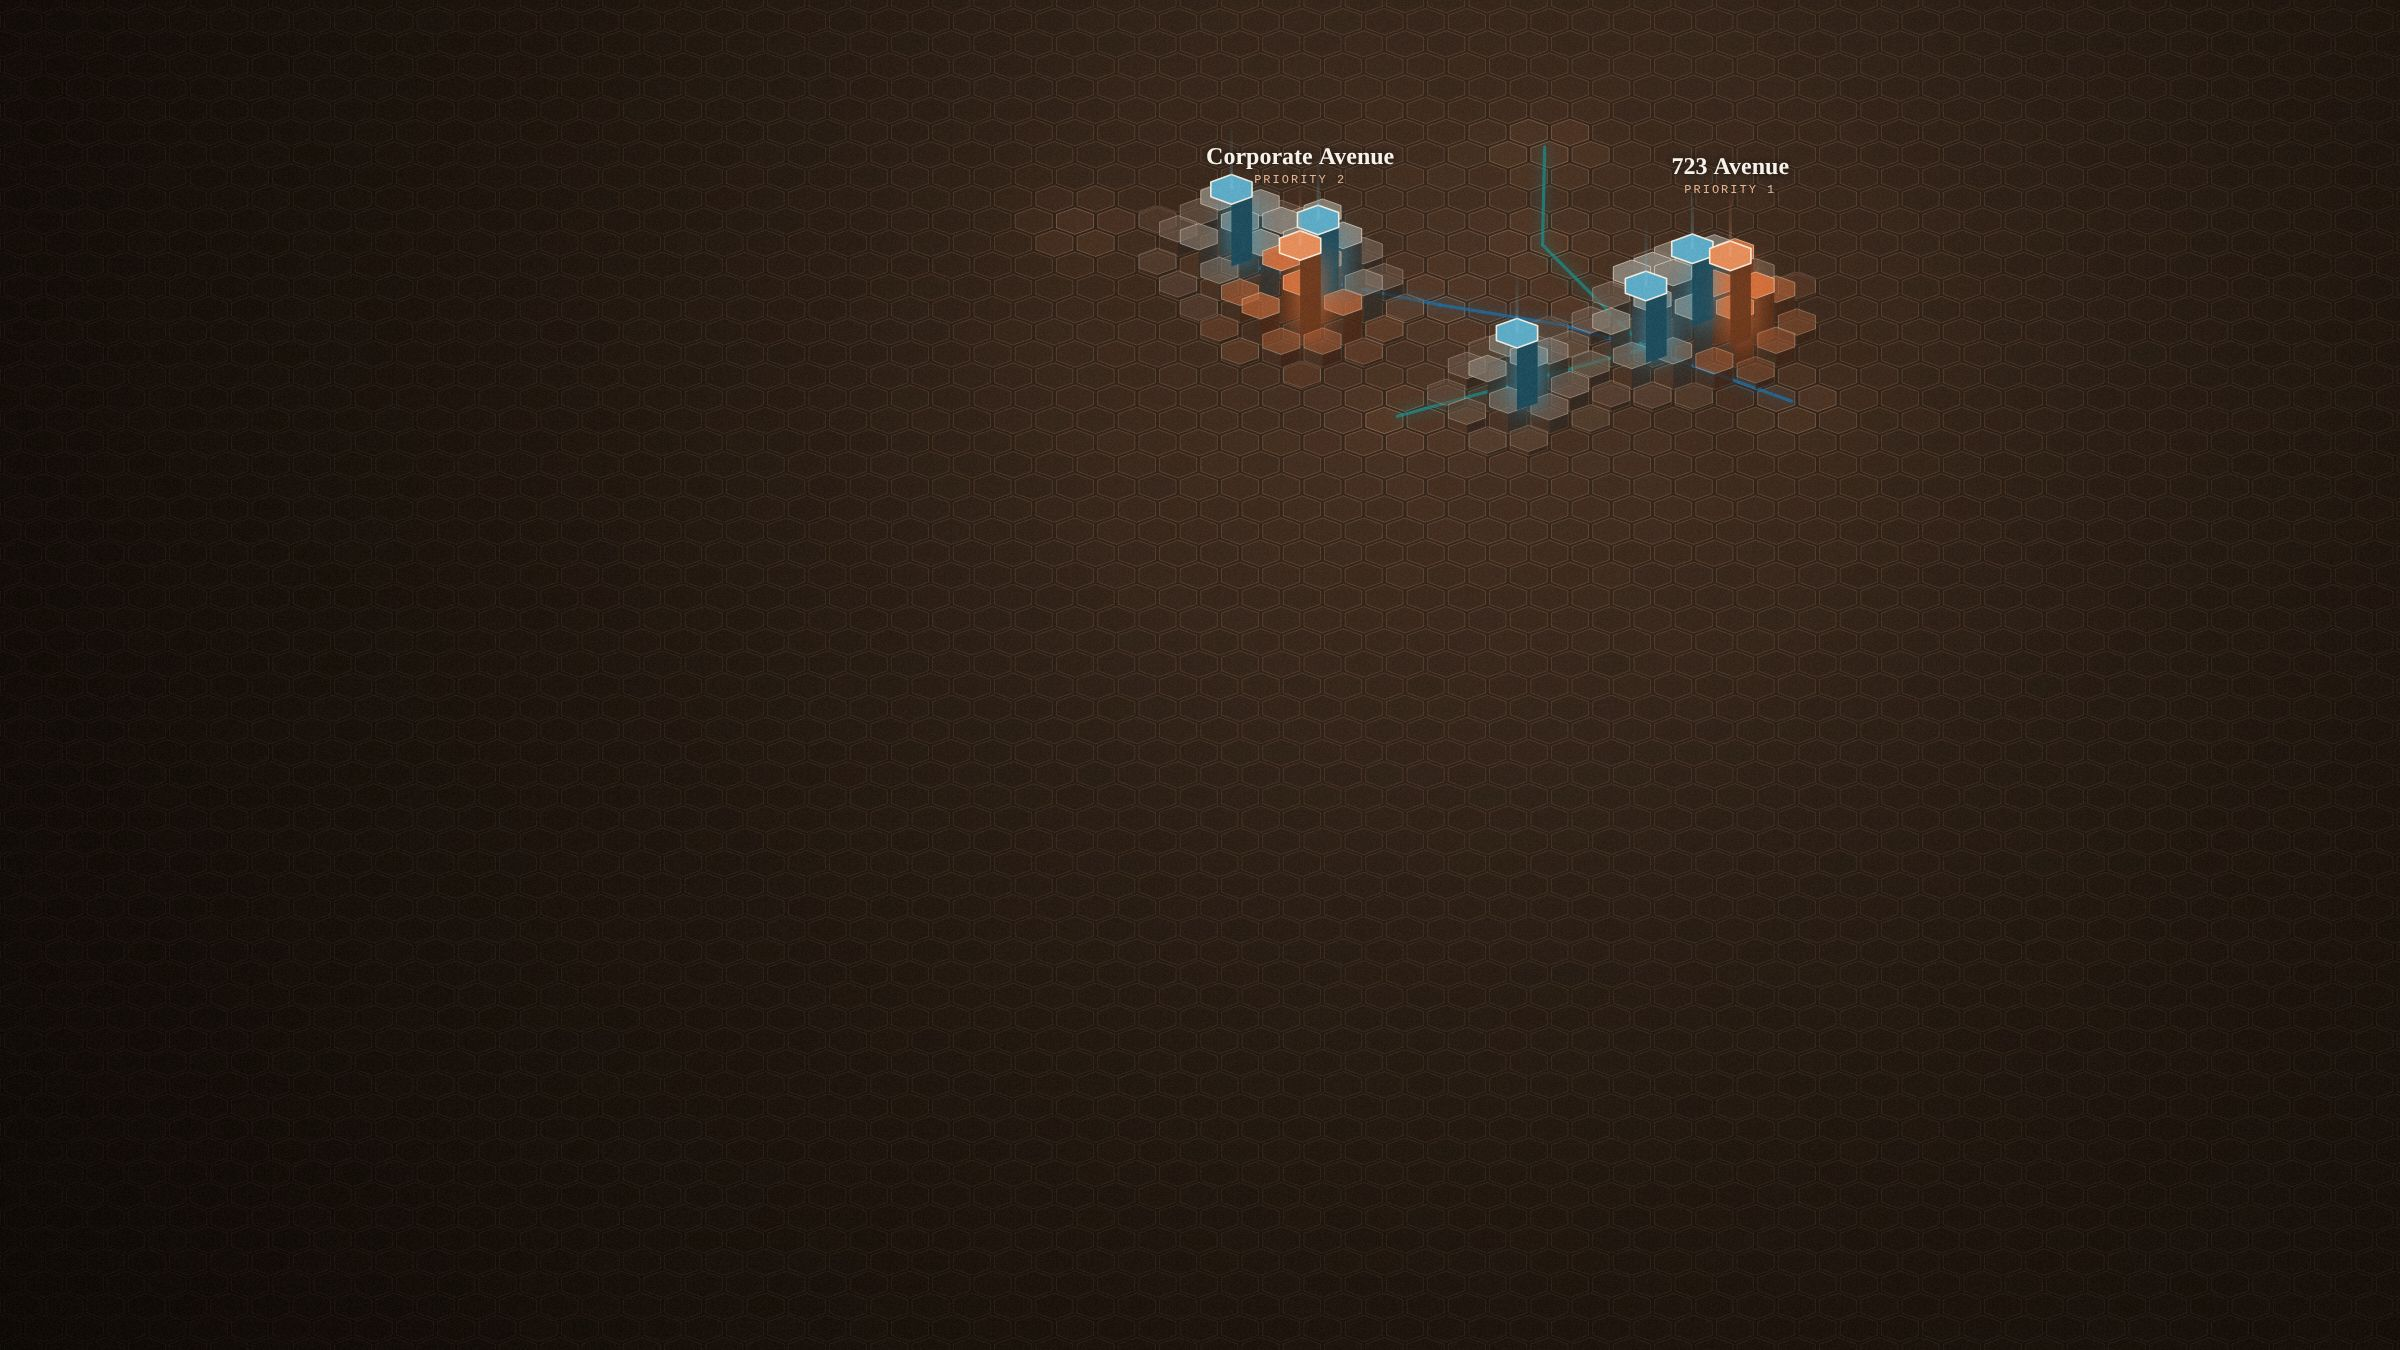
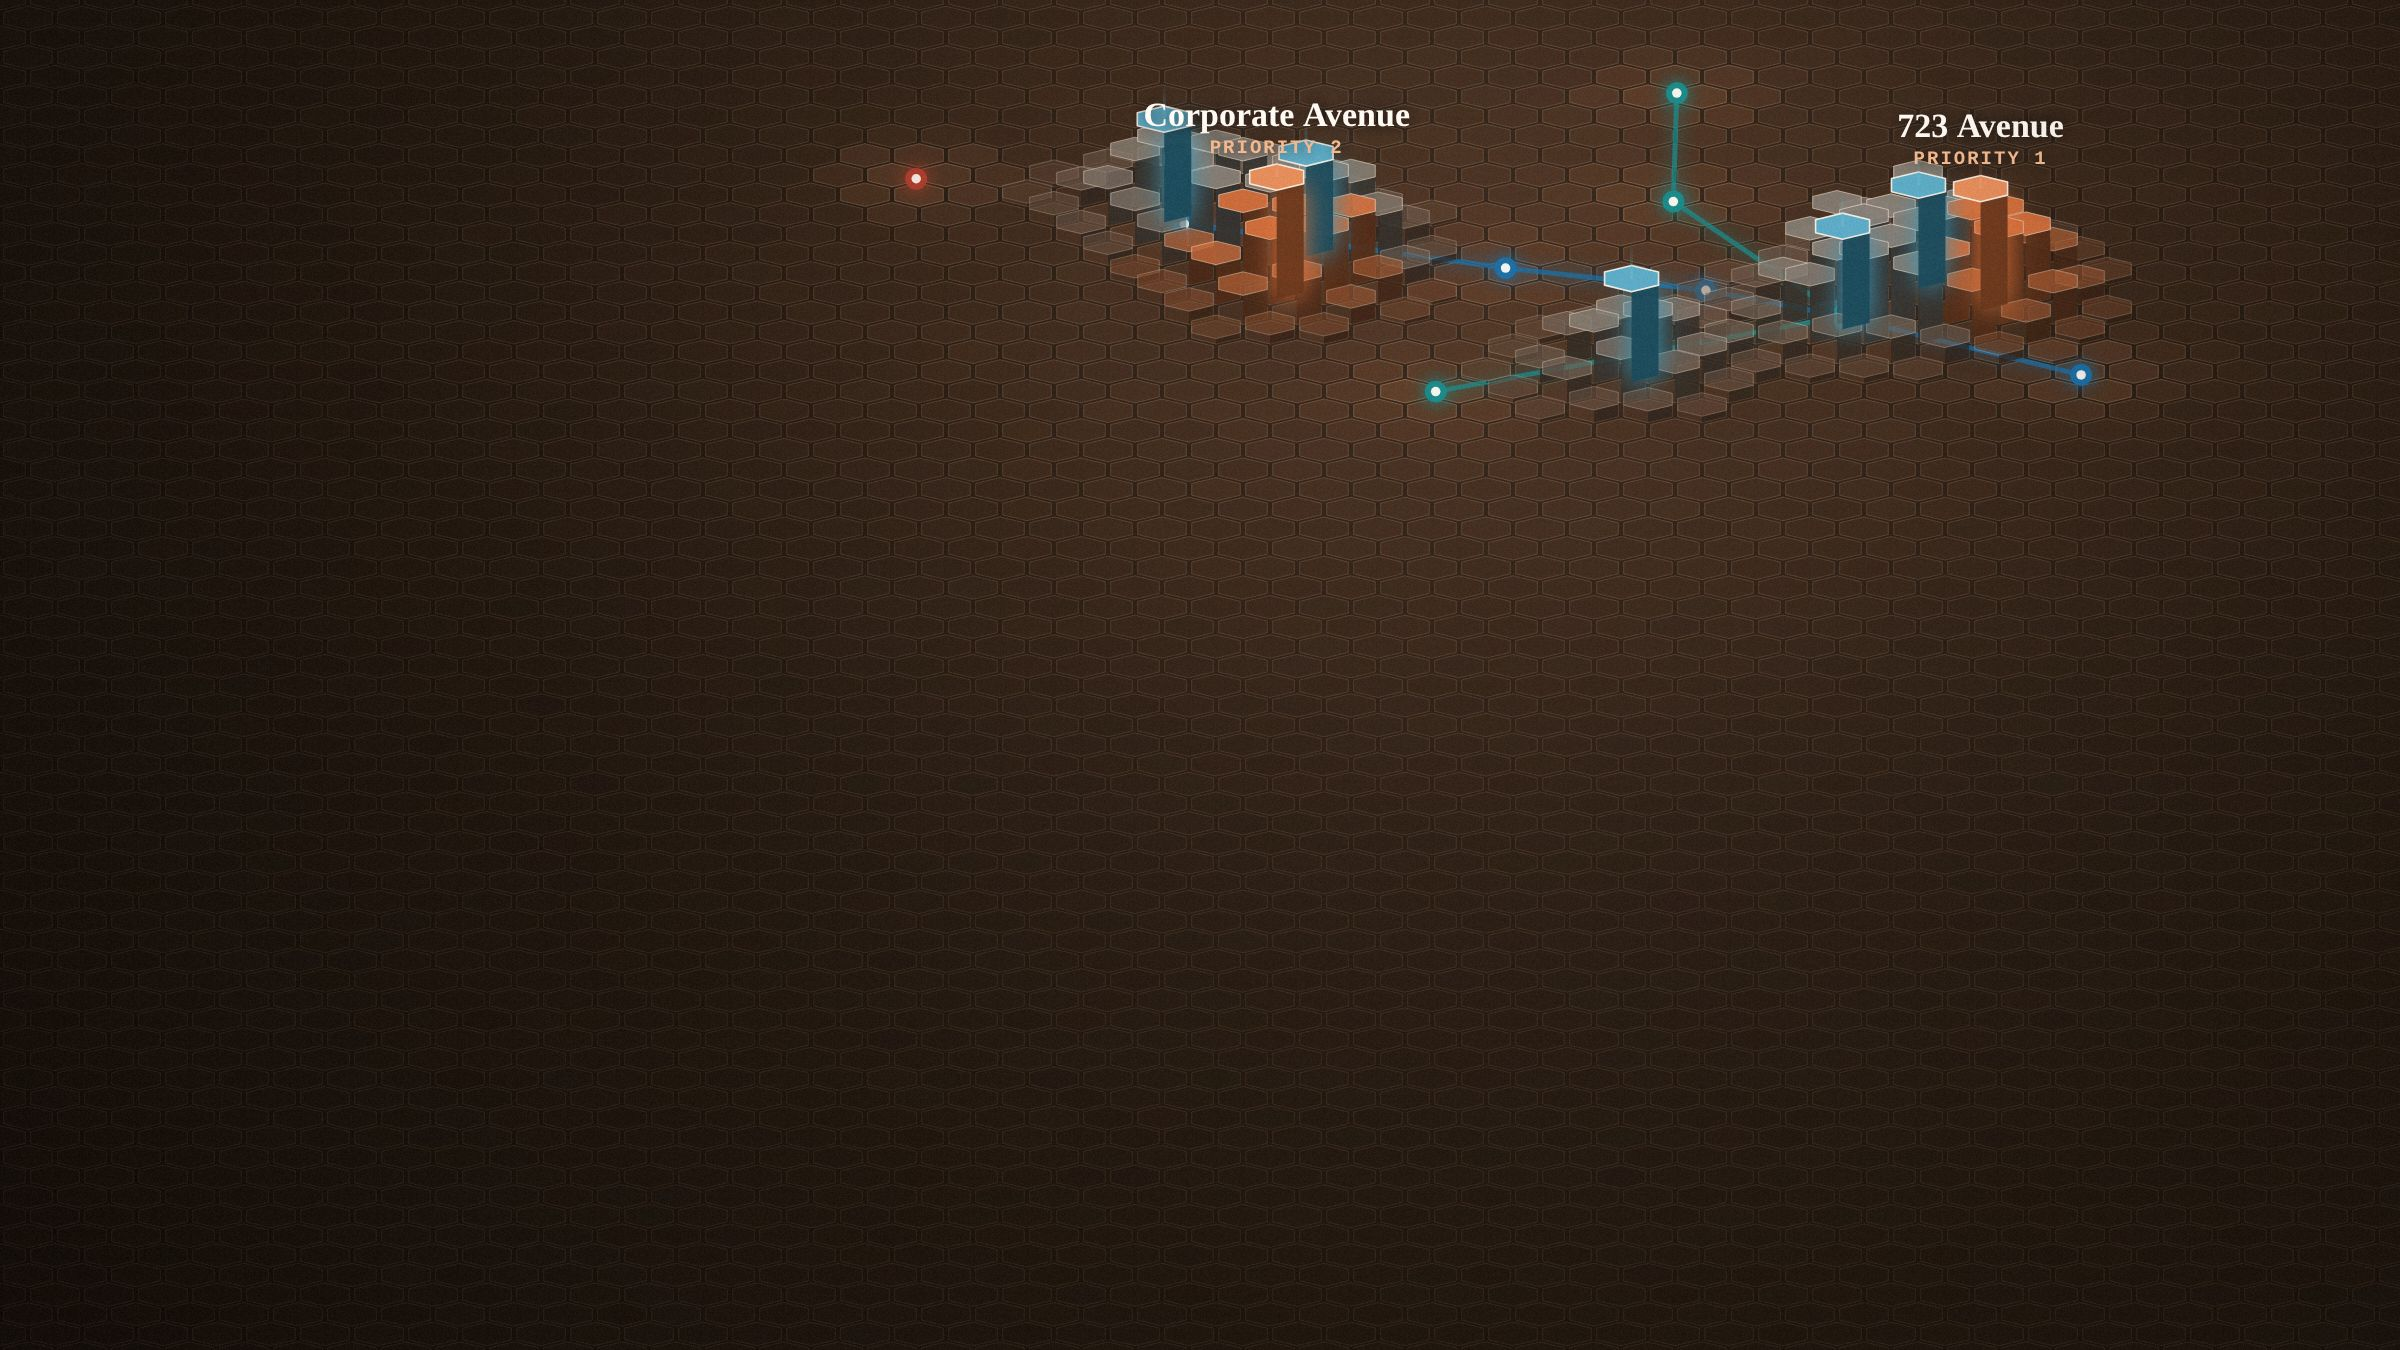
Flipkart sign-in backdrop: larger, brighter, fully in view
The field sat small and faint in the top corner, with 723 Avenue half under
the sign-in card. It is now redrawn across the bright top band, clear of the
title and the card, at about twice the scale: the metro lines are thicker and
glow, every station is a lit node, the floor and labels are brighter, and the
vignette is lighter. The page darkens its bottom and left edges, so the
picture stays out of them.

Claude-Session: https://claude.ai/code/session_01JjaGfqC5B5YAe4mdT1z2YS

Changed region(s): [[0.3438, 0.0311, 0.9375, 0.3422]]

diff --git a/scripts/render-flipkart-hexfield.js b/scripts/render-flipkart-hexfield.js
@@ -55,7 +55,7 @@ function page(spec) {
     return Math.min(1.3, h);
   };
   const railNear = (lng, lat) => { let m = 9; for (const L of D.lines) for (const s of L.stations) if (s.open) m = Math.min(m, km([lng, lat], [s.lng, s.lat])); return Math.exp(-((m / .3) ** 2)); };
-  const city = (lng, lat) => Math.exp(-((km([lng, lat], [72.870, 19.108]) / 3) ** 2));
+  const city = (lng, lat) => Math.exp(-((km([lng, lat], [72.8675, 19.1095]) / 3.4) ** 2));
   const nearestOpt = (lng, lat) => { let best = null, bd = 1e9; for (const o of D.options) { const d = km([lng, lat], [o.lng, o.lat]); if (d < bd) { bd = d; best = o; } } return best; };
   const mix = (a, b, k) => a.map((v, i) => Math.round(v + (b[i] - v) * Math.max(0, Math.min(1, k))));
   const rgb = (h) => [1, 3, 5].map(i => parseInt(h.slice(i, i + 2), 16));
@@ -78,7 +78,7 @@ function page(spec) {
   /* 2. land floor: every cell drawn, lit by city density and a little noise */
   for (const k of cells) {
     if (k.sea) continue;
-    const base = .08 + k.cty * .12 + k.n * .06 + k.r * .12;
+    const base = .1 + k.cty * .16 + k.n * .06 + k.r * .2;
     poly(corners(k.lng, k.lat, .9));
     g.fillStyle = css(mix([60, 44, 33], [140, 90, 60], k.cty + k.r), base); g.fill();
     g.strokeStyle = css([233, 180, 143], .12 + k.cty * .12 + k.r * .16); g.lineWidth = 1; g.stroke();
@@ -89,8 +89,15 @@ function page(spec) {
     const a = L.stations[i], b = L.stations[i + 1], open = a.open && b.open;
     const [x1, y1] = toXY(a.lng, a.lat), [x2, y2] = toXY(b.lng, b.lat);
     g.save(); g.setLineDash(open ? [] : [10, 9]); g.strokeStyle = L.color; g.globalAlpha = open ? .75 : .45;
-    g.lineWidth = open ? 3.2 : 2.2; g.shadowColor = L.color; g.shadowBlur = open ? 14 : 0;
+    g.lineWidth = open ? 5 : 3; g.shadowColor = L.color; g.shadowBlur = open ? 18 : 0;
     g.beginPath(); g.moveTo(x1, y1); g.lineTo(x2, y2); g.stroke(); g.restore();
+  }
+  /* stations: a glowing node on each, in its line's colour */
+  for (const L of D.lines) for (const st of L.stations) {
+    const [x, y] = toXY(st.lng, st.lat);
+    g.save(); g.shadowColor = L.color; g.shadowBlur = 18; g.fillStyle = L.color;
+    g.beginPath(); g.arc(x, y, SPEC.fontPx * .32, 0, 2 * Math.PI); g.fill(); g.restore();
+    g.fillStyle = "rgba(255,248,240,.95)"; g.beginPath(); g.arc(x, y, SPEC.fontPx * .14, 0, 2 * Math.PI); g.fill();
   }
   /* 4. columns: cells near the shortlist rise; back to front */
   const H = SPEC.towerPx;
@@ -120,22 +127,22 @@ function page(spec) {
     poly(pts, dh); g.fillStyle = css(mix(col, [255, 240, 225], o.me ? .3 : .18), 1); g.fill();
     g.strokeStyle = "rgba(255,244,232,.9)"; g.lineWidth = 1.6; g.stroke();
     /* a light beam above each, fading up */
-    const [bx, by] = toXY(o.lng, o.lat), grd = g.createLinearGradient(bx, by - dh, bx, by - dh - H * 1.3);
+    const BEAM = SPEC.beam != null ? SPEC.beam : 1.3, [bx, by] = toXY(o.lng, o.lat), grd = g.createLinearGradient(bx, by - dh, bx, by - dh - H * BEAM);
     grd.addColorStop(0, css(mix(col, [255, 255, 255], .4), .35)); grd.addColorStop(1, css(col, 0));
-    g.fillStyle = grd; g.fillRect(bx - 1.5, by - dh - H * 1.3, 3, H * 1.3);
+    g.fillStyle = grd; g.fillRect(bx - 1.5, by - dh - H * BEAM, 3, H * BEAM);
     /* the client's two priorities carry their names, at the top of the beam */
     if (o.priority) {
-      const ty = by - dh - H * 1.3 - 14;
+      const ty = by - dh - H * (SPEC.beam != null ? SPEC.beam : 1.3) - 14;
       g.save(); g.textAlign = "center"; g.shadowColor = "rgba(10,7,5,.9)"; g.shadowBlur = 10;
-      g.fillStyle = "#f7f2ea"; g.font = "600 " + SPEC.fontPx + "px Georgia, 'Times New Roman', serif"; g.fillText(o.name, bx, ty);
-      g.fillStyle = "#e9b48f"; g.font = "500 " + Math.round(SPEC.fontPx * .5) + "px 'Courier New', monospace"; g.letterSpacing = "2px";
+      g.fillStyle = "#fffaf3"; g.shadowBlur = 16; g.font = "600 " + SPEC.fontPx + "px Georgia, 'Times New Roman', serif"; g.fillText(o.name, bx, ty);
+      g.fillStyle = "#f2b98f"; g.font = "600 " + Math.round(SPEC.fontPx * .55) + "px 'Courier New', monospace"; g.letterSpacing = "2px";
       g.fillText(o.priority, bx, ty + SPEC.fontPx * .8);
       g.restore();
     }
   }
   /* vignette and grain */
   const v = g.createRadialGradient(cx, cy, Math.min(Wd, Hd) * .3, cx, cy, Math.max(Wd, Hd) * .8);
-  v.addColorStop(0, "rgba(10,7,5,0)"); v.addColorStop(1, "rgba(10,7,5,.72)");
+  v.addColorStop(0, "rgba(10,7,5,0)"); v.addColorStop(1, "rgba(10,7,5,.4)");
   g.fillStyle = v; g.fillRect(0, 0, Wd, Hd);
   const img = g.getImageData(0, 0, Wd, Hd), px = img.data;
   for (let i = 0; i < px.length; i += 4) { const n = (rnd() - .5) * 9; px[i] += n; px[i + 1] += n; px[i + 2] += n; }
@@ -146,9 +153,9 @@ function page(spec) {
 
 const SPECS = [
   /* Wide: the shortlist sits right of centre, between the copy and the card. */
-  { name: "hexfield-wide", w: 2400, h: 1350, pxKm: 165, tilt: .62, cellKm: .25, towerPx: 52, fontPx: 24, centre: [1480, 345], geo: [72.870, 19.1085] },
+  { name: "hexfield-wide", w: 2400, h: 1350, pxKm: 270, tilt: .42, cellKm: .2, towerPx: 75, fontPx: 34, beam: .5, centre: [1500, 300], geo: [72.8675, 19.1095] },
   /* Tall (phones): the map fills the top half, above the stacked copy and card. */
-  { name: "hexfield-tall", w: 1080, h: 2000, pxKm: 235, tilt: .62, cellKm: .25, towerPx: 56, fontPx: 28, centre: [540, 640], geo: [72.870, 19.1085] }
+  { name: "hexfield-tall", w: 1080, h: 2000, pxKm: 215, tilt: .62, cellKm: .22, towerPx: 70, fontPx: 26, centre: [540, 560], geo: [72.8675, 19.1095] }
 ];
 
 (async () => {
